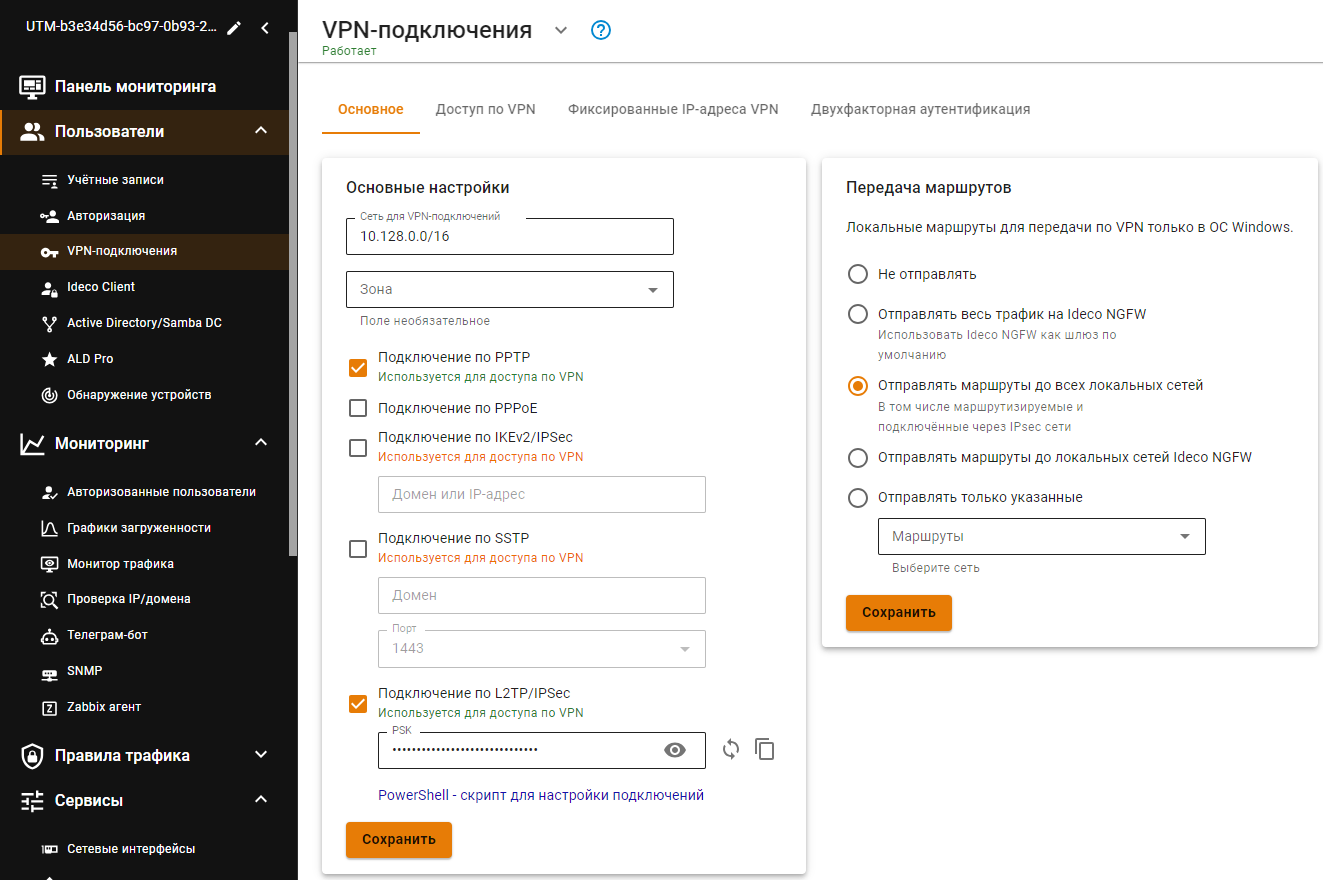
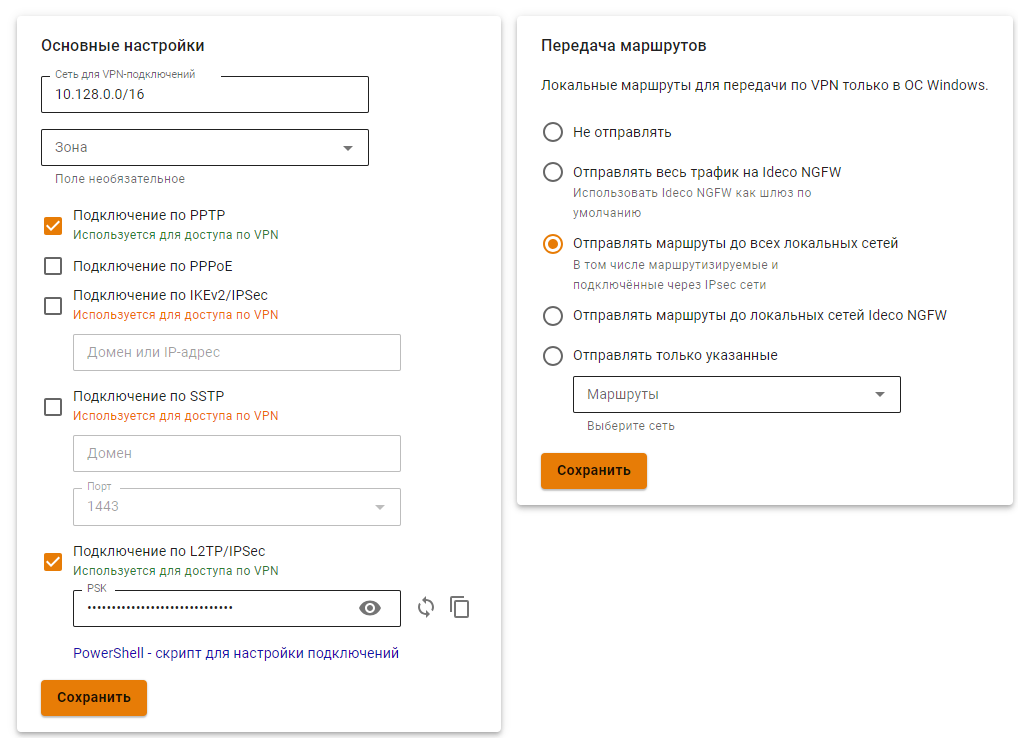
ICS-36139 УТМ. Внести правки в документацию в связи с изменением раздела Фиксированные IP-адреса VPN

diff --git a/settings/users/authorization/vpn-connection/README.md b/settings/users/authorization/vpn-connection/README.md
@@ -1,7 +1,7 @@
-# VPN-подключение
+# VPN-подключения
 
 {% hint style="success" %}
-Название службы раздела **VPN-подключение**: `ideco-accel-l2tp`; `ideco-accel-pptp`; `ideco-accel-sstp`; `ideco-vpn-servers-backend`; `ideco-vpn-authd`.\
+Название службы раздела **VPN-подключения**: `ideco-accel-l2tp`; `ideco-accel-pptp`; `ideco-accel-sstp`; `ideco-vpn-servers-backend`; `ideco-vpn-authd`.\
 Список служб для других разделов доступен по [ссылке](/settings/server-management/terminal.md).
 
 Инструкция по настройке VPN-подключения через [Ideco Client](/settings/users/ideco-client/README.md).
@@ -33,8 +33,10 @@
 
 В основных настройках выберите протоколы, по которым смогут подключаться пользователи. Подробнее о настройках в статьях: [PPTP](pptp.md), [PPPoE](pppoe.md), [IKEv2/IPsec](ipsec-ikev2.md), [SSTP](sstp.md) и [L2TP/IPsec](l2tp-ipsec.md).
 
-Для настройки конфигурации VPN-подключения сразу на несколько сетевых интерфейсов: \
-1\. Создайте зону и добавьте сетевые интерфейсы для подключения по VPN в эту зону; \
+Для настройки конфигурации VPN-подключения сразу на несколько сетевых интерфейсов:
+
+1\. Создайте зону и добавьте сетевые интерфейсы для подключения по VPN в эту зону;
+
 2\. Перейдите в раздел **Пользователи -> VPN-подключения -> Основное** и укажите зону, созданную на первом шаге.
 
 ![](/.gitbook/assets/vpn1.png)
@@ -105,12 +107,35 @@
 Для разных групп пользователей можно указать разные типы двухфакторной аутентификации. Для настройки двухфакторной аутентификации воспользуйтесь [статьей](/settings/users/two-factor-authentication.md)
 {% endhint %}
 
-## Фиксированные IP-адреса VPN
+## Правила выдачи IP-адресов
+
+На вкладке доступно создание правил для выдачи IP-адресов пользователям, подключающимся по VPN. NGFW просматривает таблицу правил сверху вниз до первого совпадения пользователя.
 
 {% hint style="info" %}
-Если создать фиксированную привязку для какого-либо пользователя, то для него будет возможна только одна активная VPN-сессия.
+Если пользователь не попал под условия правил, ему выдается свободный IP-адрес из сети для VPN-подключений. При этом из нее исключаются все подсети и одиночные адреса, указанные во всех правилах таблицы и использующиеся в текущих сессиях. Если ни одного адреса не осталось, соединение разрывается
 {% endhint %}
 
-Например: хост в локальной сети, к которому могут подключиться пользователи только с определенными IP-адресами. Для предоставления прямого доступа по VPN-подключению к этому хосту перейдите в раздел **Пользователи -> VPN-подключения -> Фиксированные IP-адреса VPN**, нажмите **Добавить**, заполните поля **Пользователь** и **IP-адрес** и нажмите **Применить**.
+Чтобы создать правило, нажмите **Добавить** и заполните следующие поля:
 
-![](/.gitbook/assets/vpn.gif)
+![](/.gitbook/assets/vpn-authorization.png)
+
+* **Название** - введите название правила;
+* **Пользователи и группы** - выберите пользователей или группы пользователей, на которых будет распространяться правило;
+* **Выдаваемые адреса** - введите IP-адрес или подсеть;
+* **Комментарий** - поле может быть пустым.
+
+{% hint style="warning" %}
+**Важно:**
+
+* Подсеть, указанная в правиле, должна полностью входить в сеть для VPN-подключений. В противном случае правило считается невалидным, адрес выдать невозможно, соединение разрывается.
+* В двух разных правилах нельзя указать одну и ту же сеть.
+* Если в разных правилах указаны пересекающиеся сети (например, cеть `10.128.1.0/24` является подсетью cети `10.128.0.0/20`), то: 
+    * адреса из cети `10.128.1.0/24` никогда не будут выдаваться; 
+    * при выдаче адресов сети `10.128.0.0/20` из нее будут исключаться адреса подcети `10.128.1.0/24`.
+* Если указать в правилах сеть, совпадающую с сетью для VPN-подключений, то все пользователи VPN, для которых не совпадет ни одно правило таблицы, не смогут получить адрес и подключиться.
+* Количество одновременных VPN подключений от одного пользоавтеля в том числе будет ограничиваться размером сети, указанной для него в правилах.
+* Если в правиле указан один IP-адрес и он уже используется в текущей сессии, то указанный в правиле пользователь не сможет установить второе VPN-подключение - оно не сможет получить адрес;
+* Если в правиле указана сеть с префиксом /30 (или маской 255.255.255.252) и более широкие сети (например, `10.128.2.0/24`), то при выдаче адреса из таких сетей адрес самой сети и широковещательный адрес (`10.128.2.0` и `10.128.2.255`) использоваться не будут. 
+{% endhint %}
+
+Чтобы отключить правило, нажмите на ![](/.gitbook/assets/icon-on.png) в столбце управления. Чтобы удалить правило, нажмите ![](/.gitbook/assets/icon-delete1.png).

diff --git a/recipes/popular-recipes/vpn/connection-for-ubuntu.md b/recipes/popular-recipes/vpn/connection-for-ubuntu.md
@@ -12,7 +12,7 @@
 
 <summary>Протокол PPTP</summary>
 
-Перед созданием подключения в Ubuntu перейдите в Ideco NGFW, в раздел **Пользователи -> VPN-подключение -> Основное** и установите флаг **Подключение по PPTP**:
+Перед созданием подключения в Ubuntu перейдите в Ideco NGFW, в раздел **Пользователи -> VPN-подключения -> Основное** и установите флаг **Подключение по PPTP**:
 
 <img src="/.gitbook/assets/pptp.png" alt="" data-size="original">
 
@@ -60,7 +60,7 @@
 
 Перед созданием подключения в Ubuntu настройте Ideco NGFW:
 
-1\. Перейдите в раздел **Пользователи -> VPN-подключение -> Основное**.
+1\. Перейдите в раздел **Пользователи -> VPN-подключения -> Основное**.
 
 2\. Установите флаг **Подключение по IKEv2/IPsec** и заполните поле **Домен и IP-адрес**:
 
@@ -103,7 +103,7 @@ sudo reboot
 5\. В разделе **Идентификация** и заполните следующие поля:
 
 * **Название** - имя подключения;
-* **Address** - введите домен, который указан в настройках **Пользователи -> VPN-подключение -> Основное -> Подключение по IKEv2/IPsec**;
+* **Address** - введите домен, который указан в настройках **Пользователи -> VPN-подключения -> Основное -> Подключение по IKEv2/IPsec**;
 * **Certificate** - выберите ранее сохраненный корневой сертификат (если он не был выдан Let\`s Encrypt);
 * **Authentication** - рекомендуем выбрать EAP;
 * **Username** - имя пользователя, которому разрешено подключение по VPN;
@@ -123,7 +123,7 @@ sudo reboot
 
 Перед созданием подключения в Ubuntu настройте Ideco NGFW:
 
-1\. Перейдите в раздел **Пользователи -> VPN-подключение -> Основное**.
+1\. Перейдите в раздел **Пользователи -> VPN-подключения -> Основное**.
 
 2\. Установите флаг **Подключение по SSTP** и заполните поля **Домен** и **Порт**:
 
@@ -184,7 +184,7 @@ sudo reboot
 
 Перед созданием подключения настройте Ideco NGFW:
 
-1\. Перейдите в раздел **Пользователи -> VPN-подключение -> Основное**.
+1\. Перейдите в раздел **Пользователи -> VPN-подключения -> Основное**.
 
 2\. Установите флаг **Подключение по L2TP/IPsec** и скопируйте **PSK**-ключ:
 
@@ -233,7 +233,7 @@ sudo reboot
 7\. Перейдите в **Настройки IPsec** и включите опцию **Enable IPsec tunnel to L2TP host**, чтобы активировалась возможность настраивать остальные параметры:
 
 * **Type: Pre-shared key (PSK)** - аутентификация по общему ключу;
-* **Pre-shared key** - ключ, который необходимо скопировать по пути **Пользователи -> VPN-подключение -> Основное** из поля **PSK**.
+* **Pre-shared key** - ключ, который необходимо скопировать по пути **Пользователи -> VPN-подключения -> Основное** из поля **PSK**.
 
 Раздел **Advanced** необязательный для заполнения.
 

diff --git a/recipes/popular-recipes/vpn/connection-for-astra-linux.md b/recipes/popular-recipes/vpn/connection-for-astra-linux.md
@@ -10,7 +10,7 @@
 
 Перед созданием подключения в Astra Linux, настройте Ideco NGFW:
 
-1\. Перейдите в раздел **Пользователи -> VPN-подключение -> Основное**.
+1\. Перейдите в раздел **Пользователи -> VPN-подключения -> Основное**.
 
 2\. Установите флаг в строке с нужным подключением и, если требуется, заполните дополнительные поля или скопируйте **PSK**-ключ.
 
@@ -44,7 +44,7 @@
 
 6\. Заполните поля:
 
-* **Pre-shared key** - PSK-ключ из настроек Ideco NGFW (**Пользователи -&gt; VPN-подключение -&gt; Основное**);
+* **Pre-shared key** - PSK-ключ из настроек Ideco NGFW (**Пользователи -> VPN-подключения -> Основное**);
 * **Phase1** - алгоритм aes256-sha512-modp2048,aes256-sha512-modp1024,aes256-sha1-ecp256,aes256-sha1-modp2048,aes256-sha1-modp1024! \*;
 * **Phase2** - алгоритмы aes256-sha512-modp2048,aes256-sha256-modp2048,aes256-sha1-modp2048,aes128-sha1-modp2048,aes256-sha512-modp1024,aes256-sha256-modp1024,aes256-sha1-modp1024,aes128-sha1-modp1024,aes256-sha512,aes256-sha256,aes256-sha1,aes128-sha1! \* 
   
@@ -96,7 +96,7 @@
 5\. В разделе **VPN** и заполните следующие поля:
 
 * **Имя соединения** - имя подключения;
-* **Address** - введите домен, который указан в настройках **Пользователи -&gt; VPN-подключение -&gt; Основное -&gt; Подключение по IKEv2/IPsec**;
+* **Address** - введите домен, который указан в настройках **Пользователи -&gt; VPN-подключения -&gt; Основное -&gt; Подключение по IKEv2/IPsec**;
 * **Certificate** - выберите ранее сохраненный корневой сертификат (если он не был выдан Let`s Encrypt);
 * **Authentication** - рекомендуем выбрать EAP;
 * **Username** - имя пользователя, которому разрешено подключение по VPN;

diff --git a/recipes/popular-recipes/vpn/connection-for-mobile-devices.md b/recipes/popular-recipes/vpn/connection-for-mobile-devices.md
@@ -28,7 +28,7 @@
 
 2\. Заполните поля:
 
-* Сервер - домен, указанный в Ideco NGFW в разделе **Пользователи -> VPN-подключение -> Основное -> Подключение по IKEv2/IPsec**;
+* Сервер - домен, указанный в Ideco NGFW в разделе **Пользователи -> VPN-подключения -> Основное -> Подключение по IKEv2/IPsec**;
 * VPN тип - IKEv2 EAP (Логин/Пароль);
 * Логин - имя пользователя, которому разрешено подключение по VPN;
 * Пароль - пароль пользователя.
@@ -74,7 +74,7 @@
 
 * Имя - имя подключения;
 * Адрес сервера - адрес VPN-сервера;
-* Общий ключ IPsec - значение строки **PSK** в разделе **Пользователи -> VPN-подключение -> Основное -> Подключение по L2TP/IPsec**.
+* Общий ключ IPsec - значение строки **PSK** в разделе **Пользователи -> VPN-подключения -> Основное -> Подключение по L2TP/IPsec**.
 
 <img src="/.gitbook/assets/android1.png" alt="" data-size="original">
 
@@ -113,7 +113,7 @@
 * Сервер - адрес VPN-сервера;
 * Учетная запись - имя пользователя, которому разрешено подключение по VPN;
 * Пароль - пароль пользователя;
-* Общий ключ - значение строки **PSK** в разделе **Пользователи -> VPN-подключение -> Основное -> Подключение по L2TP/IPsec**.
+* Общий ключ - значение строки **PSK** в разделе **Пользователи -> VPN-подключения -> Основное -> Подключение по L2TP/IPsec**.
 
 <img src="/.gitbook/assets/vpn-iphone2.png" alt="" data-size="original">
 

diff --git a/settings/users/authorization/vpn-connection/pptp.md b/settings/users/authorization/vpn-connection/pptp.md
@@ -21,7 +21,7 @@
 
 Для настройки авторизации по протоколу PPTP необходимо выполнить следующие действия:
 
-1\. Перейти в раздел **Пользователи -> VPN-подключение -> Основное**.
+1\. Перейти в раздел **Пользователи -> VPN-подключения -> Основное**.
 
 2\. Включить флаг **Подключение по PPTP**.
 
@@ -33,7 +33,7 @@
 
 ![](/.gitbook/assets/change-pass.png)
 
-IP-адрес пользователю назначается автоматически из пула адресов для VPN, настраиваемого в разделе **Пользователи -> VPN-подключение** (например, 10.128.0.0/16).
+IP-адрес пользователю назначается автоматически из пула адресов для VPN, настраиваемого в разделе **Пользователи -> VPN-подключения** (например, 10.128.0.0/16).
 
 Чтобы настроить **статическую** привязку адресов, выдаваемых по VPN определенным пользователям, необходимо перейти в раздел **Пользователи -> VPN-подключения -> Фиксированные IP-адреса VPN**, нажать иконку ![ok\_with\_icon.png](../../../../.gitbook/assets/icon-ok-with.png) и указать нужного пользователя и IP-адрес. Пример настройки фиксированного IP-адреса VPN представлен ниже:
 

diff --git a/recipes/popular-recipes/vpn/connection-for-high-sierra-macos.md b/recipes/popular-recipes/vpn/connection-for-high-sierra-macos.md
@@ -22,7 +22,7 @@
 
 <summary>Протокол PPPoE</summary>
 
-Для настройки Ideco NGFW перейдите в раздел **Пользователи -> VPN-подключение -> Основное** и установите флаг **Подключение по PPPoE**:
+Для настройки Ideco NGFW перейдите в раздел **Пользователи -> VPN-подключения -> Основное** и установите флаг **Подключение по PPPoE**:
 
 ![](/.gitbook/assets/pppoe.png)
 
@@ -58,7 +58,7 @@
 
 Настройте Ideco NGFW:
 
-1\. Перейдите в раздел **Пользователи -> VPN-подключение -> Основное**.
+1\. Перейдите в раздел **Пользователи -> VPN-подключения -> Основное**.
 
 2\. Установите флаг **Подключение по IKEv2/IPsec** и заполните поля **Домен**:
 
@@ -110,7 +110,7 @@
 
 Перед созданием подключения настройте Ideco NGFW:
 
-1\. Перейдите в раздел **Пользователи -> VPN-подключение -> Основное**.
+1\. Перейдите в раздел **Пользователи -> VPN-подключения -> Основное**.
 
 2\. Установите флаг **Подключение по L2TP/IPsec** и скопируйте **PSK**-ключ:
 

diff --git a/settings/users/authorization/vpn-connection/sstp.md b/settings/users/authorization/vpn-connection/sstp.md
@@ -19,7 +19,7 @@ NGFW не поддерживает подключение MikroTik по SSTP, т
 Запрещено использовать домен `.local`. Подключение по SSTP поддерживается только из внешних сетей.
 {% endhint %}
 
-1\. Для включения авторизации по SSTP установите флаг **Подключение SSTP** в веб-интерфейсе в разделе **Пользователи -> VPN-подключение -> Основное**.
+1\. Для включения авторизации по SSTP установите флаг **Подключение SSTP** в веб-интерфейсе в разделе **Пользователи -> VPN-подключения -> Основное**.
 
 2\. Подключение возможно только по DNS-имени, поэтому IP-адрес внешнего интерфейса Ideco NGFW должен резолвиться в одно из имен вашей внешней доменной зоны. В поле **Домен** необходимо указать данное DNS-имя (используйте реальное имя с правильной А-записью, т. к. оно необходимо для выписки сертификата Let’s Encrypt).
 

diff --git a/settings/users/authorization/vpn-connection/ipsec-ikev2.md b/settings/users/authorization/vpn-connection/ipsec-ikev2.md
@@ -21,7 +21,7 @@
 
     ![](/.gitbook/assets/certificates3.png)
 
-1\. Для включения авторизации по IKEv2 установите соответствующий флаг **Подключение по IKEv2/IPsec** в разделе веб-интерфейса **Пользователи -> VPN-подключение -> Основное**.
+1\. Для включения авторизации по IKEv2 установите соответствующий флаг **Подключение по IKEv2/IPsec** в разделе веб-интерфейса **Пользователи -> VPN-подключения -> Основное**.
 
 2\. В соответствующем поле укажите доменное имя или IP-адрес и нажмите **Сохранить**. \
 Важно: в разделе **Сервисы -> Сертификаты -> Загруженные сертификаты** загрузите сертификат с указанием полного доменного имени в расширении SAN. Wildcard-сертификат не может быть использован.

diff --git a/recipes/popular-recipes/vpn/auto-connect.md b/recipes/popular-recipes/vpn/auto-connect.md
@@ -138,7 +138,7 @@ Add-VpnConnection `
 
 <summary>Протокол IPsec IKEv2</summary>
 
-Запустить скрипт PowerShell для автоматического создания подключения на компьютерах пользователей с Windows 8.1 и 10, скачав готовый скрипт из раздела **Пользователи -> VPN-подключение -> Основное**.
+Запустить скрипт PowerShell для автоматического создания подключения на компьютерах пользователей с Windows 8.1 и 10, скачав готовый скрипт из раздела **Пользователи -> VPN-подключения -> Основное**.
 
 Перед настройкой подключения по протоколу IKEv2 установите корневой сертификат NGFW на устройство пользователя. Скачать сертификат можно одним из способов:
 

diff --git a/recipes/popular-recipes/vpn/connection-for-windows10.md b/recipes/popular-recipes/vpn/connection-for-windows10.md
@@ -66,7 +66,7 @@
 * Имя подключения - название создаваемого подключения;
 * Имя или адрес сервера - адрес VPN-сервера;
 * Тип VPN - протокол L2TP/IPsec с общим ключом;
-* Общий ключ - значение строки **PSK** в разделе **Пользователи -> VPN-подключение -> Основное -> Подключение по L2TP/IPsec**;
+* Общий ключ - значение строки **PSK** в разделе **Пользователи -> VPN-подключения -> Основное -> Подключение по L2TP/IPsec**;
 * Тип данных для входа - имя пользователя и пароль;
 * Имя пользователя - имя пользователя, которому разрешено подключение по VPN;
 * Пароль - пароль пользователя.

diff --git a/SUMMARY.md b/SUMMARY.md
@@ -34,7 +34,7 @@
     * [Авторизация по подсетям](settings/users/authorization/authorization-by-subnet.md)
     * [Авторизация пользователей терминальных серверов](settings/users/authorization/terminal-server.md)
   * [Личный кабинет пользователя](settings/users/user-personal-acсount.md)
-  * [VPN-подключение](settings/users/authorization/vpn-connection/README.md)
+  * [VPN-подключения](settings/users/authorization/vpn-connection/README.md)
     * [Двухфакторная аутентификация](settings/users/two-factor-authentication.md)
     * [Подключение по PPTP](settings/users/authorization/vpn-connection/pptp.md)
     * [Подключение по PPPoE](settings/users/authorization/vpn-connection/pppoe.md)

diff --git a/settings/users/authorization/vpn-connection/running-powershell-scripts.md b/settings/users/authorization/vpn-connection/running-powershell-scripts.md
@@ -24,7 +24,7 @@ description: >-
 
 **Из Ideco NGFW:**
 
-* Перейдите в раздел **Пользователи -> VPN-подключение -> Основное**;
+* Перейдите в раздел **Пользователи -> VPN-подключения -> Основное**;
 * Установите флаг у требуемого протокола подключения, если требуется, заполните поля и нажмите **Сохранить**;
 * Кликните по ссылке **PowerShell - скрипт для настройки подключений**: ![](/.gitbook/assets/powershell5.png)
 * Перенесите скачанный файл на устройство, на котором требуется создать VPN-подключение.
